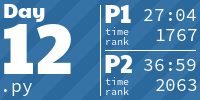
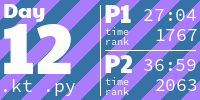
Add day 12

diff --git a/2022/12/12.kt b/2022/12/12.kt
@@ -1,0 +1,33 @@
+fun bfs(field: List<String>, queue: MutableList<Pair<Int, Int>>, target: Pair<Int, Int>): Int {
+    val dist: MutableMap<Pair<Int, Int>, Int> = mutableMapOf()
+    queue.forEach { dist[it] = 0 }
+    val dirs = listOf(-1 to 0, 1 to 0, 0 to 1, 0 to -1)
+    fun isValid(y: Int, x: Int) = 0 <= y && y < field.size && 0 <= x && x < field[0].length
+    while (!queue.isEmpty()) {
+        val (y, x) = queue.removeFirst()
+        dirs
+            .map { (ya, xa) -> Pair(y+ya, x+xa) }
+            .filter { isValid(it.first, it.second) }
+            .filter { !dist.contains(it) }
+            .filter { (ya, xa) -> field[y][x] + 1 >= field[ya][xa] }
+            .forEach { 
+                dist[it] = dist[Pair(y, x)]!! + 1
+                queue.add(it)
+            }
+    }
+    return dist[target]!!
+}
+
+fun main() {
+    var field = generateSequence(::readlnOrNull).toList()
+    fun findChars(c: Char) = field
+        .mapIndexed { y, l -> l.mapIndexed { x, _ -> y to x } }
+        .flatten()
+        .filter { field[it.first][it.second] == c }
+        .toMutableList()
+    val S = findChars('S')
+    val E = findChars('E').first()
+    field = field.map { it.replace("S", "a").replace("E", "z") }
+    println(bfs(field, S, E))
+    println(bfs(field, findChars('a'), E))
+}

diff --git a/README.md b/README.md
@@ -39,7 +39,7 @@
 <a href="2022/11/11.kt">
   <img src="Media/2022/11.png" width="161px">
 </a>
-<a href="2022/12/12.py">
+<a href="2022/12/12.kt">
   <img src="Media/2022/12.png" width="161px">
 </a>
 <h1 align="center">
